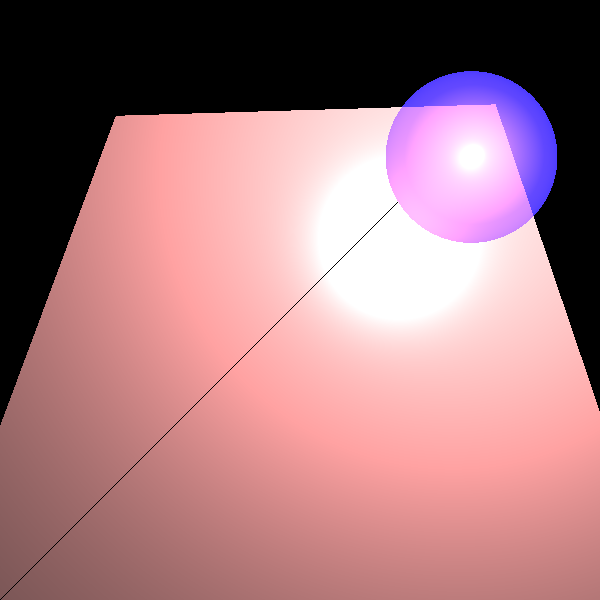
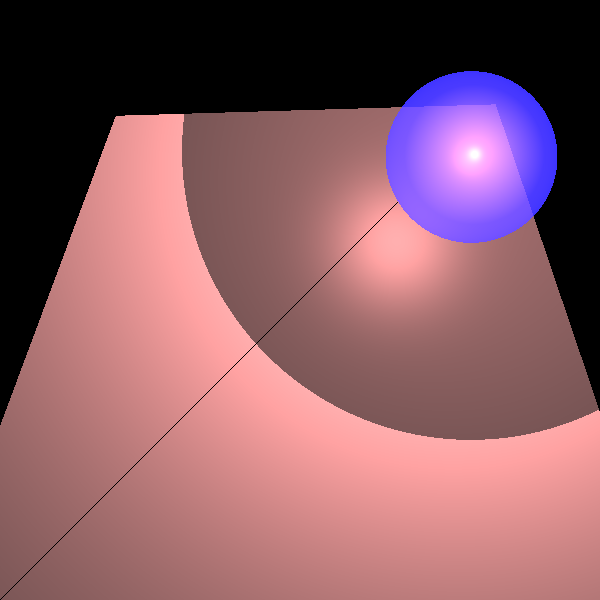
Fixing79

Changed region(s): [[0.3, 0.12, 1.0, 0.75]]

diff --git a/src/renderer/SimpleRayTracer.java b/src/renderer/SimpleRayTracer.java
@@ -307,7 +307,7 @@ public class SimpleRayTracer extends RayTracerBase {
         for (Intersection i : intersections) {
             // Check if the intersection point is closer to the light source than the original intersection point
             distance= shadowRay.getHead().distance(i.point);
-            if ((alignZero( distanceLight-distance)>0)&&(i.material.kT.lowerThan(MIN_CALC_COLOR_K))){
+            if ((alignZero( distanceLight-distance)>0)){
                 ktr=ktr.product(i.material.kT);
                 if (ktr.lowerThan(MIN_CALC_COLOR_K)){
                     return Double3.ZERO;
